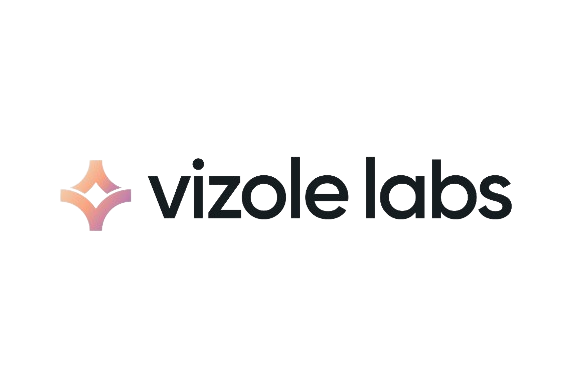
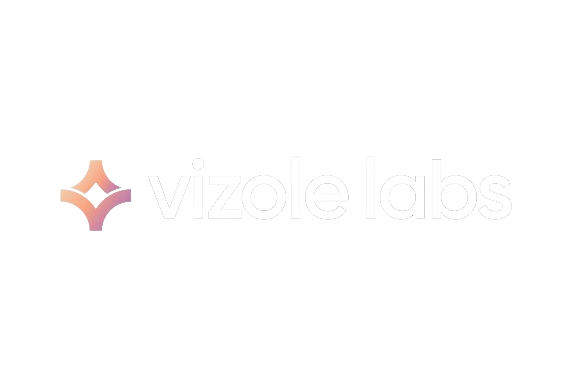
fix: navbar and resposive issues

Changed region(s): [[0.2382, 0.4107, 0.8932, 0.5867]]

diff --git a/app/page.tsx b/app/page.tsx
@@ -1,20 +1,14 @@
 "use client"
-import { Metadata } from "next"
+
 import { Button } from "components/Button/Button"
 import { InfiniteSlider } from "components/Slider/Slider"
 import { useState } from "react"
-import Navbar from "components/Navbar/Navbar"
-import { LP_GRID_ITEMS } from "lp-items"
 import { FaArrowRight, FaFileCsv, FaNewspaper } from "react-icons/fa"
 import "../styles/custom.css"
-import { MdOutlineWeb } from "react-icons/md"
 import { TiTick } from "react-icons/ti"
-import { MdOutlineAppSettingsAlt } from "react-icons/md"
 import { Glow, GlowCapture } from "@codaworks/react-glow"
-import StarBackground from "components/StarBackground/StarBackground"
-import { Textarea } from "@nextui-org/react"
 import ImageFilter from "components/ImageFilter/ImageFilter"
-import { BackgroundBeams } from "components/Ui/BackgroundBeams"
+import { BsGlobe2, BsAndroid, BsApple, BsHeadsetVr } from "react-icons/bs"
 
 export default function Web() {
   const [init, setInit] = useState(false)
@@ -160,7 +154,7 @@ export default function Web() {
                 <div className=" glowable-text flex max-w-[100%] items-center rounded-[20px] border p-4 glow:border-glow glow:bg-glow/[.50] glow:ring-2 glow:ring-glow">
                   <div className=" text-center">
                     <div className="mr-3 inline-flex flex-shrink-0 items-center justify-center rounded-full px-5 ">
-                      <MdOutlineWeb className="h-[80px] w-[80px] text-white" />
+                      <BsGlobe2 className="h-[50px] w-[50px] text-white" />
                     </div>
                   </div>
                   <div className="flex h-full flex-col rounded-lg ">
@@ -171,8 +165,7 @@ export default function Web() {
                     </div>
                     <div className="flex flex-grow flex-col justify-between">
                       <p className="text-base leading-relaxed text-gray-300">
-                        We specialize in creating modern, user-friendly websites that reflect your brand and drive
-                        business growth.
+                        We craft engaging and responsive websites that captivate users and drive business growth.
                       </p>
                       <a
                         href="#"
@@ -199,19 +192,19 @@ export default function Web() {
                 <div className=" glowable-text flex max-w-[100%] items-center rounded-[20px] border p-4 glow:border-glow glow:bg-glow/[.50] glow:ring-2 glow:ring-glow">
                   <div className=" text-center">
                     <div className="mr-3 inline-flex flex-shrink-0 items-center justify-center rounded-full px-5 ">
-                      <MdOutlineAppSettingsAlt className="h-[80px] w-[80px] text-white" />
+                      <BsApple className="h-[50px] w-[50px] text-white" />
                     </div>
                   </div>
                   <div className="flex h-full flex-col rounded-lg ">
                     <div className="mb-3 flex items-center ">
                       <h2 className="mb-4 max-w-3xl text-4xl font-extrabold capitalize leading-none tracking-tight text-white md:text-4xl xl:text-3xl">
-                        IOS / Android App Development
+                        IOS Application Development
                       </h2>
                     </div>
                     <div className="flex flex-grow flex-col justify-between">
                       <p className="text-base leading-relaxed text-gray-300">
-                        We specialize in creating modern, user-friendly websites that reflect your brand and drive
-                        business growth.
+                        Our skilled team designs and develops intuitive iOS apps that seamlessly integrate with Apple
+                        devices.
                       </p>
                       <a
                         href="#"
@@ -238,19 +231,18 @@ export default function Web() {
                 <div className=" glowable-text flex max-w-[100%] items-center rounded-[20px] border p-4 glow:border-glow glow:bg-glow/[.50] glow:ring-2 glow:ring-glow">
                   <div className=" text-center">
                     <div className="mr-3 inline-flex flex-shrink-0 items-center justify-center rounded-full px-5 ">
-                      <MdOutlineWeb className="h-[80px] w-[80px] text-white" />
+                      <BsAndroid className="h-[50px] w-[50px] text-white" />
                     </div>
                   </div>
                   <div className="flex h-full flex-col rounded-lg ">
                     <div className="mb-3 flex items-center ">
                       <h2 className="mb-4 max-w-3xl text-4xl font-extrabold capitalize leading-none tracking-tight text-white md:text-4xl xl:text-3xl">
-                        Web Devlopment
+                        Android Application Development
                       </h2>
                     </div>
                     <div className="flex flex-grow flex-col justify-between">
                       <p className="text-base leading-relaxed text-gray-300">
-                        We specialize in creating modern, user-friendly websites that reflect your brand and drive
-                        business growth.
+                        From concept to deployment, we create robust Android apps that cater to a diverse user base.
                       </p>
                       <a
                         href="#"
@@ -277,19 +269,19 @@ export default function Web() {
                 <div className=" glowable-text flex max-w-[100%] items-center rounded-[20px] border p-4 glow:border-glow glow:bg-glow/[.50] glow:ring-2 glow:ring-glow">
                   <div className=" text-center">
                     <div className="mr-3 inline-flex flex-shrink-0 items-center justify-center rounded-full px-5 ">
-                      <MdOutlineWeb className="h-[80px] w-[80px] text-white" />
+                      <BsHeadsetVr className="h-[50px] w-[50px] text-white" />
                     </div>
                   </div>
                   <div className="flex h-full flex-col rounded-lg ">
                     <div className="mb-3 flex items-center ">
                       <h2 className="mb-4 max-w-3xl text-4xl font-extrabold capitalize leading-none tracking-tight text-white md:text-4xl xl:text-3xl">
-                        Web Devlopment
+                        Apps for AR Devices
                       </h2>
                     </div>
                     <div className="flex flex-grow flex-col justify-between">
                       <p className="text-base leading-relaxed text-gray-300">
-                        We specialize in creating modern, user-friendly websites that reflect your brand and drive
-                        business growth.
+                        Immerse users in augmented reality experiences with our cutting-edge applications for MetaQuest
+                        and Apple Vision Pro.
                       </p>
                       <a
                         href="#"
@@ -317,7 +309,7 @@ export default function Web() {
         </div>
       </section>
 
-      <section className="mb-32 h-[150vh] bg-[#0f172a] pl-[10%] pr-[10%] pt-40">
+      <section className="mb-10 h-[20%] bg-[#0f172a] pl-[10%] pr-[10%] pt-40">
         <div className="mx-auto place-self-center text-center">
           <div className="mb-4 text-center text-4xl font-extrabold capitalize leading-none tracking-tight text-white md:text-4xl xl:text-5xl">
             <h1 className="bg-gradient-to-r from-slate-400 via-white to-slate-400 bg-clip-text text-transparent">
@@ -329,10 +321,12 @@ export default function Web() {
             digital transformation across industries.”
           </p>
         </div>
-        <ImageFilter />
+        <div>
+          <ImageFilter />
+        </div>
       </section>
 
-      <section className="bg-[#0f172a] dark:bg-gray-900 md:pt-[8%] lg:pt-[5%]">
+      <section className="bg-[#0f172a] max-md:p-4 md:pl-0 md:pr-0 lg:pl-[10%] lg:pr-[10%]">
         <div className="mx-auto max-w-screen-md px-4 py-8 lg:py-16">
           <h2 className="mb-4 text-center text-4xl font-extrabold capitalize leading-none tracking-tight text-white md:text-4xl xl:text-5xl">
             Contact Us

diff --git a/components/Navbar/Navbar.tsx b/components/Navbar/Navbar.tsx
@@ -1,50 +1,99 @@
+"use client"
 interface NavbarProps {
-    logoSrc: string; // Path to your logo image
+  logoSrc: string // Path to your logo image
+}
+
+import { useState, useEffect } from "react"
+import { Button } from "components/Button/Button"
+import { FaArrowRight } from "react-icons/fa"
+
+const Navbar: React.FC<NavbarProps> = ({ logoSrc }) => {
+  const [showBackground, setShowBackground] = useState(false)
+  const TOP_OFFSET = 50
+
+  useEffect(() => {
+    const handleScroll = () => {
+      if (window.scrollY >= TOP_OFFSET) {
+        setShowBackground(true)
+      } else {
+        setShowBackground(false)
+      }
+    }
+
+    window.addEventListener("scroll", handleScroll)
+
+    return () => {
+      window.removeEventListener("scroll", handleScroll)
+    }
+  }, [])
+
+  const [hovered, setHovered] = useState(false)
+  const imgStyle = {
+    transform: hovered ? "translateX(3px)" : "none",
+    transition: "transform .2s", // Optional: Smooth transition
   }
-  
-  const Navbar: React.FC<NavbarProps> = ({ logoSrc }) => {
-    return (
-      <nav className="fixed top-0 left-0 w-full h-20 bg-transparent flex items-center justify-between px-4 z-50">
-        <a href="/">
-          <img src={logoSrc} alt="Your Logo" className="h-20" />
-        </a>
-        <ul className="hidden md:flex space-x-4 text-lg font-medium">
-          <li>
-            <a href="/" className="hover:text-gray-700">
-              Home
-            </a>
-          </li>
-          <li>
-            <a href="/services" className="hover:text-gray-700">
-              Services
-            </a>
-          </li>
-          <li>
-            <a href="/portfolio" className="hover:text-gray-700">
-              Portfolio
-            </a>
-          </li>
-          <li>
-            <a href="/about-us" className="hover:text-gray-700">
-              About Us
-            </a>
-          </li>
-          <li>
-            <a href="/contact-us" className="hover:text-gray-700">
-              Contact Us
-            </a>
-          </li>
-        </ul>
-        <div className="flex md:hidden items-center">
-          <button className="px-4 py-2 text-white bg-blue-500 hover:bg-blue-700 rounded-md">
-            Sign In
-          </button>
-          <button className="px-4 py-2 ml-2 text-white bg-green-500 hover:bg-green-700 rounded-md">
-            Sign Up
-          </button>
-        </div>
-      </nav>
-    );
-  };
-  
-  export default Navbar;
+
+  return (
+    <nav
+      className={`${
+        showBackground ? "backdrop-blur" : "bg-transparent"
+      } fixed left-0 top-0 z-50 flex h-20 w-full items-center justify-between px-4 text-white`}
+    >
+      <a href="/">
+        <img src={logoSrc} alt="Your Logo" className="h-20 text-white" />
+      </a>
+      <ul className="hidden space-x-4 text-lg font-medium md:flex">
+        <li>
+          <a href="/" className="hover:text-vizoleG2">
+            Home
+          </a>
+        </li>
+        <li>
+          <a href="/services" className="hover:text-vizoleG2">
+            Services
+          </a>
+        </li>
+        <li>
+          <a href="/portfolio" className="hover:text-vizoleG2">
+            Portfolio
+          </a>
+        </li>
+        <li>
+          <a href="/about-us" className="hover:text-vizoleG2">
+            About Us
+          </a>
+        </li>
+        <li>
+          <a href="/contact-us" className="hover:text-vizoleG2">
+            Contact Us
+          </a>
+        </li>
+      </ul>
+      <div className="flex items-center">
+        <Button
+          href="https://vercel.com/new/git/external?repository-url=https://github.com/Blazity/next-enterprise"
+          intent="navSignIn"
+          size="hero1"
+        >
+          Sign In
+        </Button>
+        <Button
+          href="https://vercel.com/new/git/external?repository-url=https://github.com/Blazity/next-enterprise"
+          intent="navSignUp"
+          size="hero1"
+          onMouseEnter={() => setHovered(true)}
+          onMouseLeave={() => setHovered(false)}
+        >
+          Sign Up
+          <div className="ml-2">
+            <span>
+              <FaArrowRight style={imgStyle} className="text-white" />
+            </span>
+          </div>
+        </Button>
+      </div>
+    </nav>
+  )
+}
+
+export default Navbar

diff --git a/components/ImageFilter/ImageFilter.tsx b/components/ImageFilter/ImageFilter.tsx
@@ -2,7 +2,7 @@
 
 import { Button } from "components/Button/Button"
 import { useState } from "react"
-import { Image } from "./image"
+import { ImageCard } from "./image"
 import { FilterableData } from "./FilterableData"
 import { CardBody, CardContainer, CardItem } from "components/Ui/Card"
 import { motion } from "framer-motion" // Import motion
@@ -33,11 +33,16 @@ const ImageFilter = () => {
         ))}
         {/* filtered cards display */}
       </div>
-      <main className="grid w-full gap-x-5 gap-y-8 md:mt-8 md:grid-cols-2 lg:grid-cols-3">
+      {/* <main className="grid w-full gap-x-5 gap-y-8 md:mt-8 md:grid-cols-2 lg:grid-cols-3"> */}
+      <main className="grid max-w-full grid-cols-1 place-items-center gap-3 p-4 md:max-w-full md:grid-cols-3">
         {FilterableData.map((item, index) => (
           <motion.div
             key={index}
-            layout
+            layout={"position"}
+            initial={{ opacity: 0 }}
+            animate={{ opacity: 1 }}
+            exit={{ opacity: 0 }}
+            transition={{ duration: 0.5 }}
             className={`w-full cursor-pointer rounded-lg border border-gray-600 bg-gray-800 shadow  ${
               activeFilter === "all" || activeFilter === item.name
                 ? "" /* Show card */
@@ -46,8 +51,8 @@ const ImageFilter = () => {
           >
             <CardContainer>
               <CardBody>
-                <Image
-                  className="h-[400px] w-full overflow-hidden rounded-lg"
+                <ImageCard
+                  className="h-full w-full overflow-hidden rounded-lg"
                   image={item.src}
                   alt={item.name}
                   objectCover="object-cover"

diff --git a/components/ImageFilter/image.tsx b/components/ImageFilter/image.tsx
@@ -7,8 +7,9 @@ type ImageOwnProps<T extends React.ElementType> = {
 }
 
 type ImageProps<T extends React.ElementType> = ImageOwnProps<T> & Omit<React.ComponentProps<T>, keyof ImageOwnProps<T>>
+import Image from "next/image"
 
-export const Image = <T extends React.ElementType = "div">({
+export const ImageCard = <T extends React.ElementType = "div">({
   className,
   image,
   alt,
@@ -19,7 +20,7 @@ export const Image = <T extends React.ElementType = "div">({
   const Component = as || "div"
   return (
     <Component className={className} {...rest}>
-      <img src={image} alt={alt} className={`h-full w-full ${objectCover}`} />
+      <Image src={image} width={400} height={400} alt={alt} className={`h-full w-full ${objectCover}`} />
     </Component>
   )
 }

diff --git a/components/Button/Button.tsx b/components/Button/Button.tsx
@@ -17,6 +17,28 @@ const button = cva(["inline-flex", "items-center", "rounded-xl", "text-center", 
         "border-2",
         "border-slate-100",
       ],
+      navSignIn: [
+        "bg-transparent",
+        "justify-center",
+        "text-slate-200",
+        "rounded-[30px]",
+        "hover:text-white",
+        "border-solid",
+        "border-0",
+        "border-slate-100",
+        "mr-2",
+      ],
+      navSignUp: [
+        "justify-center",
+        "text-slate-100",
+        "hover:text-white",
+        "rounded-[30px]",
+        "border-solid",
+        "border-2",
+        "border-slate-100",
+        "flex",
+        "mx-auto",
+      ],
       hero1: [
         "text-black",
         "bg-white",
